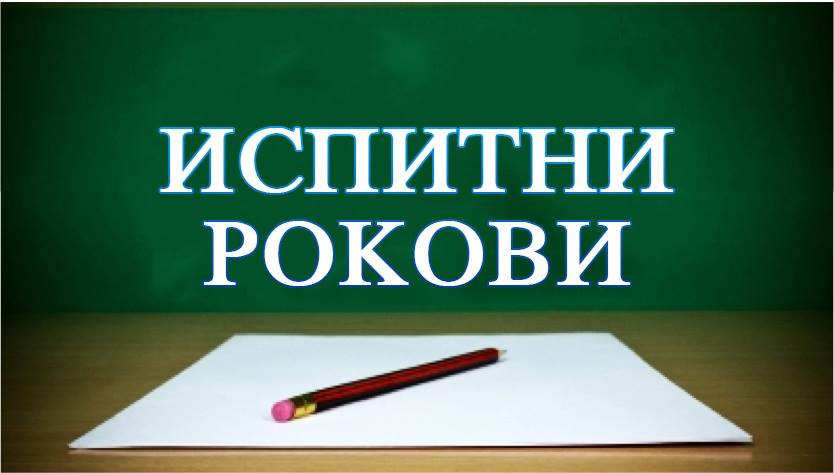
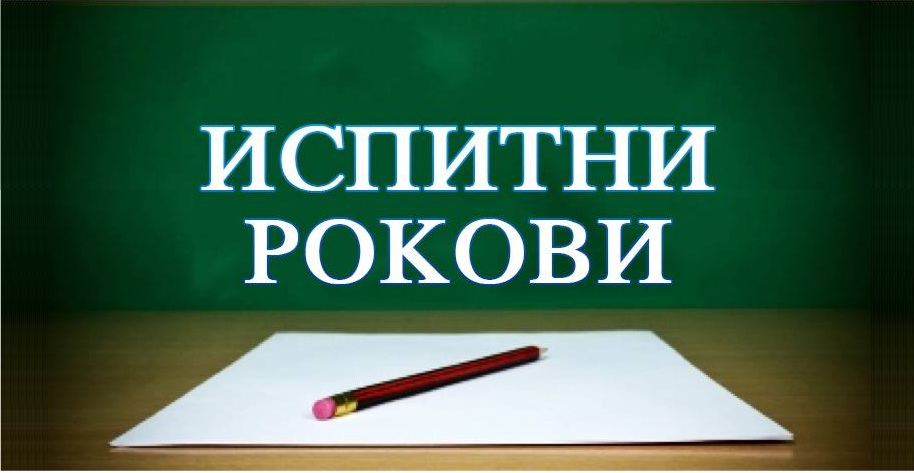
Second commit
Done bit of optimization

diff --git a/radoviStudenata/radovi.html b/radoviStudenata/radovi.html
@@ -45,7 +45,7 @@
 		<div class="col-lg-12 col-md-12 col-xs-12">
 			<div class="panel panel-default" >
 				<div class="panel-heading naslov">
-					Инфомациони системи
+					<h4><b>Инфомациони системи</b></h4>
 				</div>
 				<div class="panel-body ">
 					<div class="row" style="margin-left:-21px">
@@ -57,16 +57,34 @@
 									<div class="panel-body">
 										<div>
 											<p  class="col-lg-4 col-xs-6 paragraph">Cтудентски сервис прављен у С#</p>
-											<a target='_blank' href="https://github.com/vlado92/Sudoku.git">
+											<a target='_blank' href="https://drive.google.com/open?id=0B7HxUII5udHVUW1Ia0E3TDRXMjQ">
 												<img src="http://www.nuigalway.ie/student_services/images/ss_logo_400_138.png" alt='slika'  class = "col-lg-8 col-md-5 col-sm-4	 col-xs-4 slika">
 											</a>
 										</div>
 									</div>
 									<div class="panel-footer">
-										<a href="Studentski%20Servis%20-%20kod.rar">Код</a>
+										<a href="https://drive.google.com/open?id=0B7HxUII5udHVNjlLeC1NTGtvazA">Код</a>
 									</div>
 								</div>
 							</div>
+							<div class="col-md-6 col-xs-12 col-lg-4">
+									<div class="panel panel-default">
+										<div class="panel-heading predmetHead">
+											<b>Миланка Пејановић</b>
+										</div>
+										<div class="panel-body">
+											<div>
+												<p  class="col-lg-4 col-xs-6 paragraph">Продавница прављена у С#</p>
+												<a target='_blank' href="https://drive.google.com/open?id=0B7HxUII5udHVZU1DVUt4aVZEN1U">
+													<img src="https://drive.google.com/open?id=0B7HxUII5udHVTnhmT2trenVvelU" alt='slika'  class = "col-lg-8 col-md-5 col-sm-4	 col-xs-4 slika">
+												</a>
+											</div>
+										</div>
+										<div class="panel-footer">
+											<a href="https://drive.google.com/open?id=0B7HxUII5udHVaVd4ejZENDBPRTA">Код</a>
+										</div>
+									</div>
+								</div>
 					</div>
 				</div>
 			</div>
@@ -74,7 +92,7 @@
 		<div class="col-lg-12 col-md-12 col-xs-12">
 			<div class="panel panel-default" >
 				<div class="panel-heading naslov">
-					Програмски језици
+					<h4><b>Програмски језици</b></h4>
 				</div>
 				<div class="panel-body ">
 					<div class="row" style="margin-left:-21px">
@@ -86,7 +104,7 @@
 								<div class="panel-body">
 									<div>
 									<p class="col-lg-4 col-xs-6 paragraph">Cудоку, игра прављена у Јави</p>
-										<a target='_blank' href="Sudoku.rar">
+										<a target='_blank' href="https://drive.google.com/open?id=0B7HxUII5udHVSFlaUmxjbmdPTVk">
 											<img src="https://cardgames.io/sudoku/images/sudoku-logo.png" alt='slika igre'  class = "col-lg-8 col-md-5 col-sm-4 col-xs-4 slika">
 										</a>
 									</div>
@@ -104,8 +122,8 @@
 								<div class="panel-body  predmetBody">
 									<div>
 									<p class="col-lg-4 col-xs-6 paragraph" class="igraTekst">Овдје се налази Flappy fish, игра прављена у Јави</p>
-										<a target='_blank' href="FlappyFish.rar">
-											<img src="flappyFish.png" alt='slika igre' class = "col-lg-8 col-md-5 col-sm-4	 col-xs-4 slika">
+										<a target='_blank' href="https://drive.google.com/open?id=0B7HxUII5udHVNHNOOWhDQWl1RGs">
+											<img src="https://drive.google.com/open?id=0B7HxUII5udHVR2ZTWTlZZ09QbFU" alt='slika igre' class = "col-lg-8 col-md-5 col-sm-4	 col-xs-4 slika">
 										</a>
 									</div>
 								</div>
@@ -122,8 +140,8 @@
 								<div class="panel-body">
 									<div>
 									<p class="col-lg-4 col-xs-6 paragraph">Овдје се налази Mastermind, игра прављена у Јави</p>
-										<a target='_blank' href="MasterMind.rar">
-											<img src="mastermind.png" alt='slika igre' class = "col-lg-8 col-md-5 col-sm-4 col-xs-4 slika">
+										<a target='_blank' href="https://drive.google.com/open?id=0B7HxUII5udHVUUNpUzR2MEd2SzQ">
+											<img src="https://drive.google.com/open?id=0B7HxUII5udHVZm16ZTJ1WHZZbG8" alt='slika igre' class = "col-lg-8 col-md-5 col-sm-4 col-xs-4 slika">
 										</a>
 									</div>
 								</div>
@@ -140,8 +158,8 @@
 								<div class="panel-body">
 									<div>
 									<p class="col-lg-4 col-xs-6 paragraph">Овдје се налази BattleShip, игра прављена у Јави</p>
-										<a target='_blank' href="BattleShip.rar">
-											<img src="BattleShip.png" alt='slika igre' class = "col-lg-8 col-md-5 col-sm-4 col-xs-4 slika">
+										<a target='_blank' href="https://drive.google.com/open?id=0B7HxUII5udHVYUN1ZGJJMFZTbm8">
+											<img src="https://drive.google.com/open?id=0B7HxUII5udHVV1JIY0dQRWY3OG8" alt='slika igre' class = "col-lg-8 col-md-5 col-sm-4 col-xs-4 slika">
 										</a>
 									</div>
 								</div>
@@ -158,8 +176,8 @@
 								<div class="panel-body">
 									<div>
 									<p class="col-lg-4 col-xs-6 paragraph">Овдје се налази SpaceInvaders, игра прављена у Јави</p>
-										<a target='_blank' href="SpaceInvaders.rar">
-											<img src="SpaceInvaders.png" alt='slika igre' class = "col-lg-8 col-md-5 col-sm-4 col-xs-4 slika">
+										<a target='_blank' href="https://drive.google.com/open?id=0B7HxUII5udHVcTg2MXVIUzdNTzQ">
+											<img src="https://drive.google.com/open?id=0B7HxUII5udHVQ0NVc0RQREFpdXM" alt='slika igre' class = "col-lg-8 col-md-5 col-sm-4 col-xs-4 slika">
 										</a>
 									</div>
 								</div>
@@ -176,8 +194,8 @@
 								<div class="panel-body">
 									<div>
 									<p class="col-lg-4 col-xs-6 paragraph">Овдје се налази Scientific Calculator, игра прављена у Јави</p>
-										<a target='_blank' href="ScientificCalculator.jar">
-											<img src="ScientificCalculator.png" alt='slika igre' class = "col-lg-8 col-md-5 col-sm-4 col-xs-4 slika">
+										<a target='_blank' href="https://drive.google.com/open?id=0B7HxUII5udHVajlQMElVV1h6eXc">
+											<img src="https://drive.google.com/open?id=0B7HxUII5udHVVlp2TjQ4b3NYVWM" alt='slika igre' class = "col-lg-8 col-md-5 col-sm-4 col-xs-4 slika">
 										</a>
 									</div>
 								</div>
@@ -194,8 +212,8 @@
 								<div class="panel-body">
 									<div>
 									<p class="col-lg-4 col-xs-6 paragraph">Овдје се налази DoodleJump, игра прављена у Јави</p>
-										<a target='_blank' href="DoodleJump.rar">
-											<img src="DoodleJump.png" alt='slika igre' class = "col-lg-8 col-md-5 col-sm-4 col-xs-4 slika">
+										<a target='_blank' href="https://drive.google.com/open?id=0B7HxUII5udHVZ1N0UWxNeDB3MzA">
+											<img src="https://drive.google.com/open?id=0B7HxUII5udHVLUg5M3NWb0MwMTA" alt='slika igre' class = "col-lg-8 col-md-5 col-sm-4 col-xs-4 slika">
 										</a>
 									</div>
 								</div>
@@ -212,7 +230,7 @@
 								<div class="panel-body">
 									<div>
 									<p class="col-lg-4 col-xs-6 paragraph">Овдје се налази Adressbook, игра прављена у Јави</p>
-										<a target='_blank' href="Adressbook.rar">
+										<a target='_blank' href="https://drive.google.com/open?id=0B7HxUII5udHVXzR6S0tkUGc4VTg">
 											<img src="http://rata.com/files/product_images/659a.png" alt='slika igre'  class = "col-lg-8 col-md-5 col-sm-4 col-xs-4 slika">
 										</a>
 									</div>
@@ -230,8 +248,8 @@
 								<div class="panel-body">
 									<div>
 									<p class="col-lg-4 col-xs-6 paragraph">Овдје се налази X-O Extended, игра прављена у Јави</p>
-										<a target='_blank' href="x_o_extended.jar">
-											<img src="x_o_extended.png" alt='slika igre' class = "col-lg-8 col-md-5 col-sm-4 col-xs-4 slika">
+										<a target='_blank' href="https://drive.google.com/open?id=0B7HxUII5udHVNXI2RnQ2ODhwNUU">
+											<img src="https://drive.google.com/open?id=0B7HxUII5udHVMmNQeUVpdk5MUkk" alt='slika igre' class = "col-lg-8 col-md-5 col-sm-4 col-xs-4 slika">
 										</a>
 									</div>
 								</div>

diff --git a/index.html b/index.html
@@ -44,10 +44,10 @@
 
 <div class="col-md-10 col-md-offset-1 col-xs-12" style="text-align: center;">
     <a class="col-sm-6 col-xs-12" target='_blank' href="http://raspored.ffuis.edu.ba/#/schedules/view?studyProgramId=1" >
-        <img src="http://www.pmfst.unist.hr/wp-content/uploads/2016/02/raspored.jpg" border="0" style="margin-left: 5px; margin-right: 5px; max-height:90px;" height="auto" width="100%">
+        <img src="http://www.pmfst.unist.hr/wp-content/uploads/2016/02/raspored.jpg" border="0" style="margin-left: 5px; margin-right: 5px; max-height:90px;" width="100%">
     </a>
     <a class="col-sm-6 col-xs-12" href="ispitniRokovi/ispitniRokovi.html"  >
-        <img src="IspitniRokovi.jpg" border="0" style="margin-left: 5px; margin-right: 5px; max-height:90px;" height="473" width="834">
+        <img src="ispitniRokovi.jpg" alt='SLIKA' border="0" style="margin-left: 5px; margin-right: 5px; max-height:90px;" width="100%">
     </a>
 </div>
 <p>&nbsp;</p>

diff --git a/CSS/stil.css b/CSS/stil.css
@@ -1,5 +1,5 @@
  .panel-default>.panel-heading{
-    background-color: #c1c1ba;
+    background-color: #ccd1d2;
     text-align: center;
 }
 
@@ -60,11 +60,11 @@ body{
 }
 
 .panel-default>.naslov{
-    background-color: #ffff00;
+    background-color:#cbcdfb;
     text-align: center;
 }
 .panel-default>.predmetHead{
-    background-color:#fffabc;
+    background-color: rgba(42, 243, 36, 0.5);
     text-align: center;
 }
 
